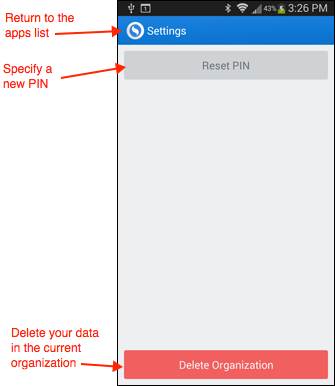
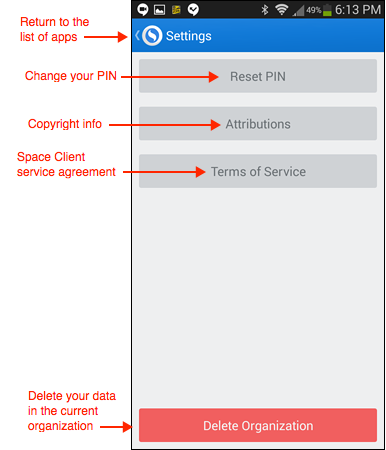
Android Guide Update

Changed region(s): [[0.0, 0.0, 1.0, 1.0], [0.5075, 0.9326, 0.8358, 0.9637], [0.597, 0.1554, 0.7463, 0.1865]]

diff --git a/docs/guides/android_client_guide/README.md b/docs/guides/android_client_guide/README.md
@@ -15,7 +15,7 @@ password from your Space Manager administrator.
 
 ## Requirements
 
-The Sencha Space Client supports Android version 2.3.3 or later.
+Sencha Space Client supports Android version 2.3.3 or later.
 
 Installing the user client requires 5 MB to download to the device,
 with the installed size requiring approximately 35 MB on the device. 
@@ -47,26 +47,35 @@ The prompts you see to log in depend on whether this is your
 ### First Log In
 
 <ol>
-<li>Click the Android <b>Apps</b> button and click <b>Space</b>:
+<li><p>Click the Android <b>Apps</b> button and click <b>Space</b>:</p>
 {@img AppsToSpace.png}</li>
-<li>Type your organization name and click <b>Next</b>:
+<li><p>Type your organization name and click <b>Next</b>:</p>
 {@img Android1.png}
 </li>
-<li>Type your email address and password, and click <b>Log In</b>.<br> 
-If you don't know your password, click <b>Forgot password?</b>:
+<li></p>Type your email address and password, and click <b>Log In</b>.<br> 
+If you don't know your password, click <b>Forgot password?</b>:</p>
 {@img Android2.png}
 </li>
-<li>If a personal identification number (PIN) prompt displays, type your PIN, confirm it, 
+<li><p>If a personal identification number (PIN) prompt displays, 
+type your PIN, confirm it, 
 and click <b>Continue</b>. The PIN type
-is set by the Space Manager Administrator:
+is set by the Space Manager Administrator:</p>
 	<ol>
-	<li>If you see a number keypad, your PIN must 
-	be at least 4 digits in length.</li>
-	<li>If you see a full QWERTY keyboard, your PIN must be at least 4 characters in length 
-	and must contain at least one number, a letter, and a special character.
+	<li><p>If you see a number keypad, your PIN must 
+	be at least 4 digits in length.</p></li>
+	<li><p>If you see a full QWERTY keyboard, your PIN 
+	must be at least 4 characters in length 
+	and can contain letters and possibly special characters. If 
+	you enter an incorrect PIN, a message indicates the allowed
+	characters.</p>
 	{@img Android3.png}
 	</li>
 	</ol></li>
+<li><p>If configured, Space opens with prompts to show how to view 
+apps and to use the Sencha menu.</p>
+{@img WelcomeInfoPrompts.png}</li>
+<li><p>If configured, the Welcome to Space screen appears:</p>
+{@img WelcomeToSpace.png}</li>
 </ol>
 
 <a name="returnlogin"></a>
@@ -133,13 +142,18 @@ Access the Settings menu by clicking the Sencha logo in the Apps list, for examp
 {@img SettingsMenuButton.png}
 
 Sencha Space provides the following settings:
+
 {@img AndroidSettingsScreen.png}
+
 <ol>
-<li><b>Sencha Logo</b> - Return to previous screen</li>
-<li><b>Reset PIN</b> - Specify your current PIN, a new PIN, and confirm the new PIN</li>
+<li><b>Sencha Logo</b> - Return to list of apps</li>
+<li><b>Reset PIN</b> - Specify your current PIN, 
+a new PIN, and confirm the new PIN</li>
+<li><b>Attributions</b> - Space Client copyright information</li>
+<li><b>Terms of Service</b> - Space Client service agreement</li>
 <li><b>Delete Organization</b> - Deletes all data you may have 
-stored while using the current 
-organization and prompts you to log in again with a new organization name. Use this
+stored while using the current organization and prompts you to 
+log in again with a new organization name. Use this
 option if you've borrowed a device and want to return it, or when you're changing
 organizations.
 </li>
@@ -148,7 +162,8 @@ organizations.
 
 ## Change PIN
 
-Specify your personal identification number (PIN) and new PIN, and click <b>Next</b>. 
+Specify your personal identification number (PIN) and new PIN, 
+and click <b>Next</b>. 
 Confirm the new PIN and click <b>Continue</b>.
 
 {@img AndroidResetPIN.png}
